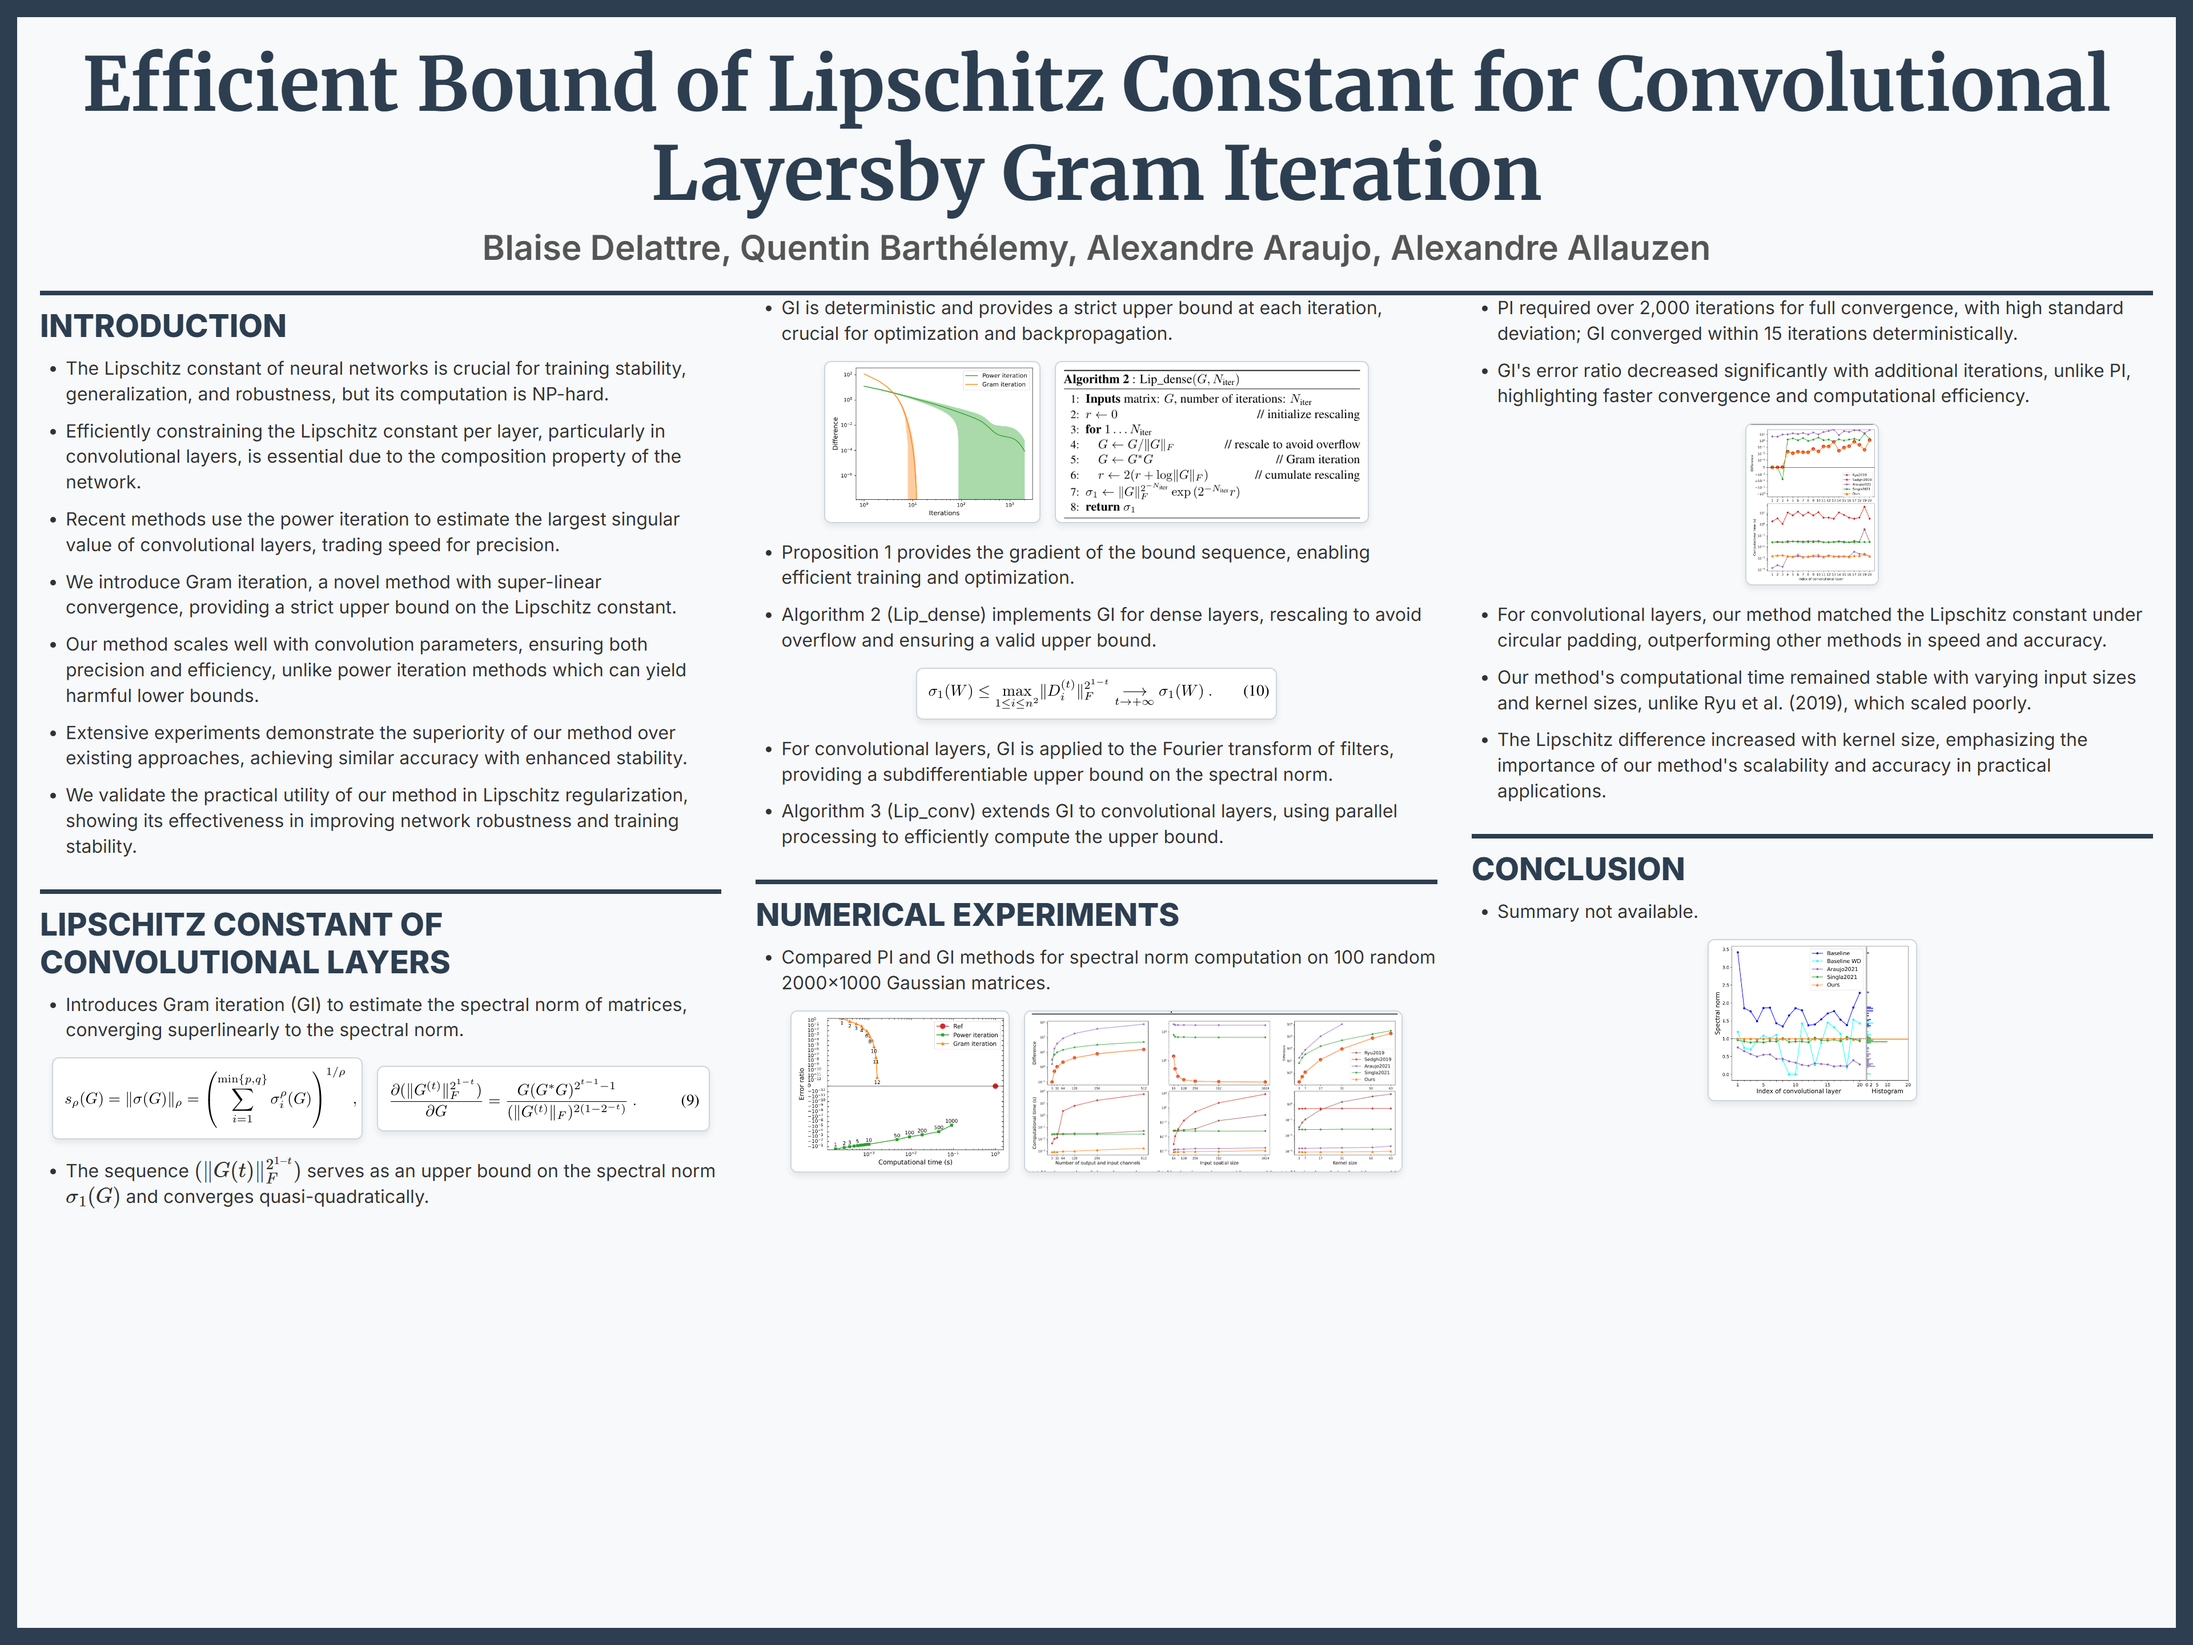
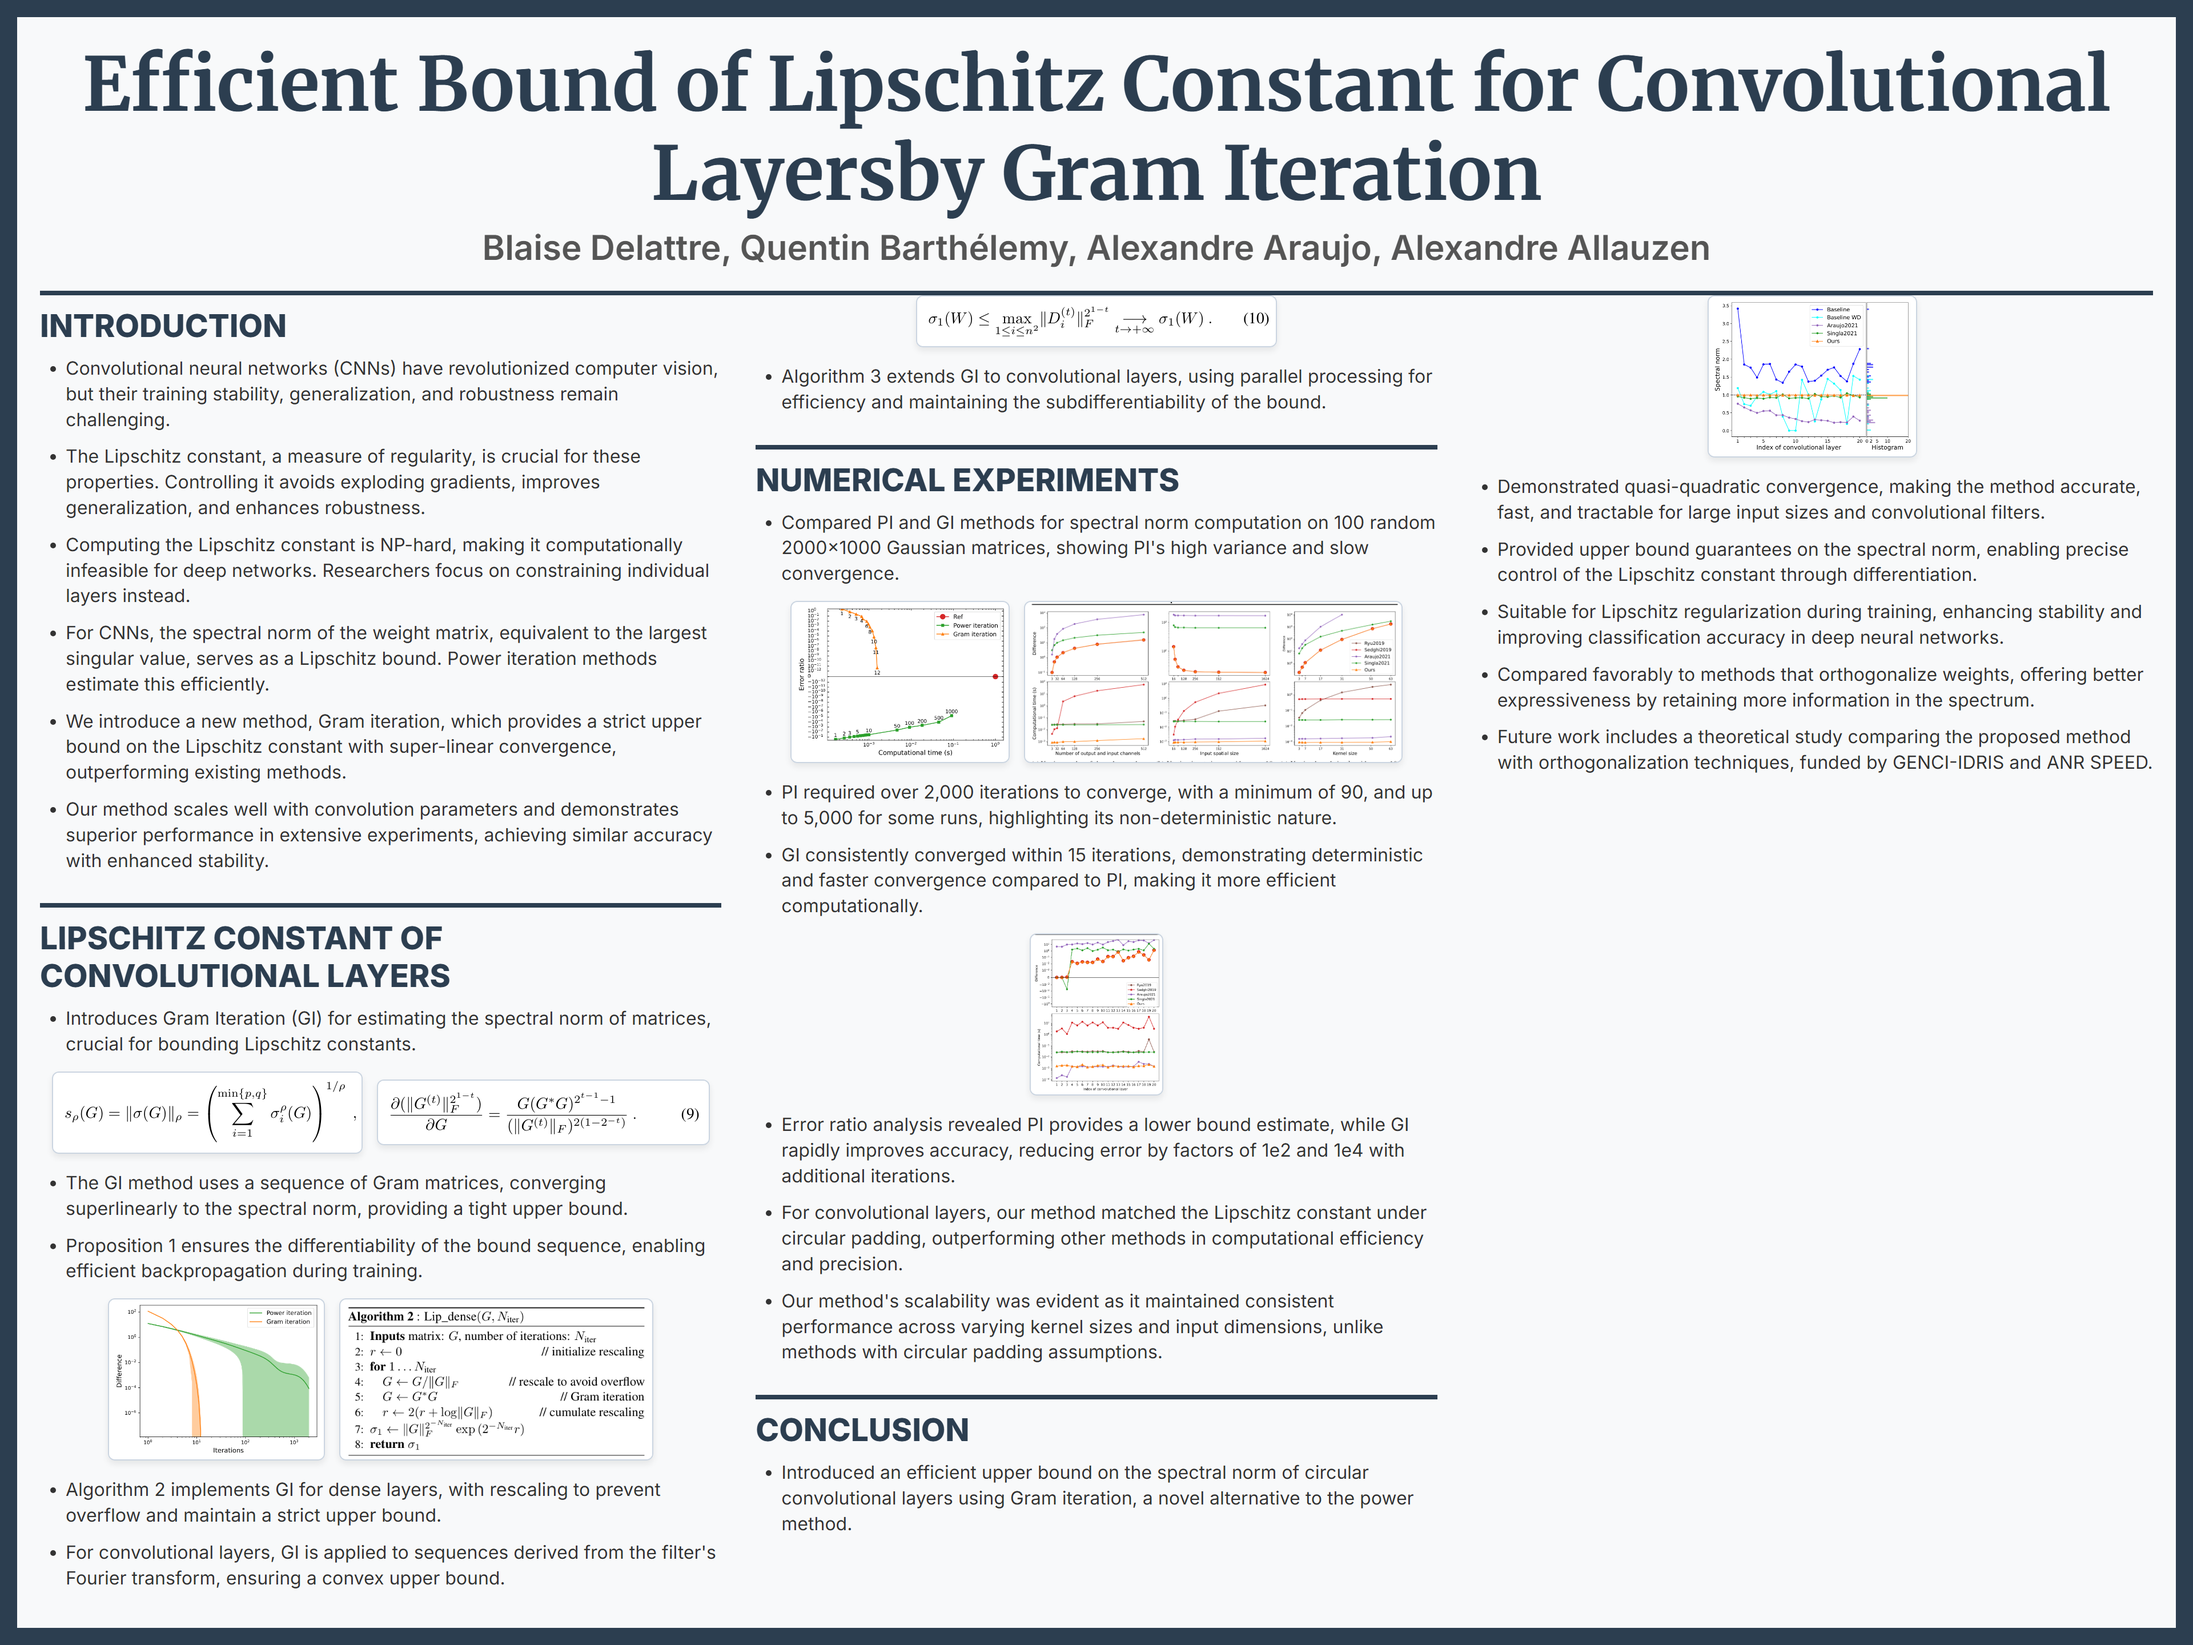
new

diff --git a/templates/poster.html b/templates/poster.html
@@ -42,10 +42,10 @@
         .poster-grid {
             column-count: 3;
             column-gap: 60px;
-            column-fill: balance;
+            column-fill: auto;
             flex-grow: 1;
             width: 100%;
-            height: auto; /* Fallback to natural flex flow */
+            height: 10px; /* Forces explicit height context for sequential flow under flex */
             padding-bottom: 20px;
             border-top: 8px solid var(--accent);
             padding-top: 0px;

diff --git a/utils/llm_client.py b/utils/llm_client.py
@@ -65,12 +65,20 @@ def get_structured_completion(messages: list, response_format: type[BaseModel]) 
         start = result_text.find('{')
         end = result_text.rfind('}')
         
-        # General typo cleanup
-        result_text = result_text.replace('"imagepath":', '"image_path":')
-        
         if start != -1 and end != -1:
              result_text = result_text[start:end+1]
-        else:
+             
+        # General typo cleanup and LaTeX JSON crash prevention
+        result_text = result_text.replace('"imagepath":', '"image_path":')
+        
+        # HuggingFace open models natively fail to escape LaTeX backslashes inside JSON.
+        # This replaces single backslashes with double backslashes so json.loads() doesn't throw JSONDecodeError!
+        import re
+        result_text = re.sub(r'\\(?!["\\/bfnrt])', r'\\\\', result_text)
+        # Flatten raw literal newlines that destroy JSON validation natively
+        result_text = result_text.replace('\n', ' ').replace('\r', '')
+        
+        if start == -1 or end == -1:
              if '"bullets":' in result_text:
                  result_text = "{" + result_text + "}"
                  # Clean up the trailing characters if it drifted
